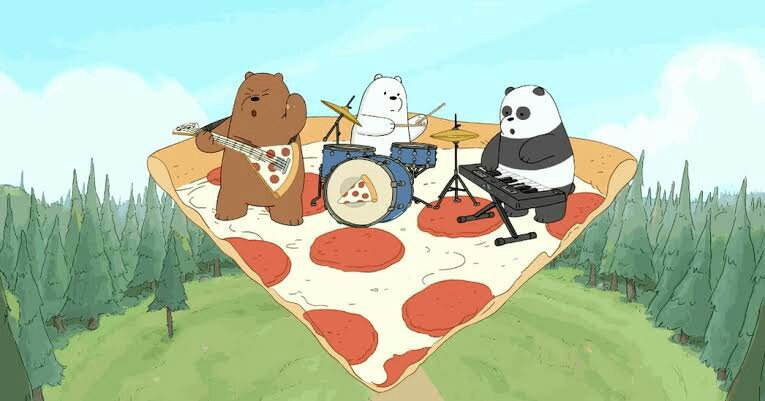
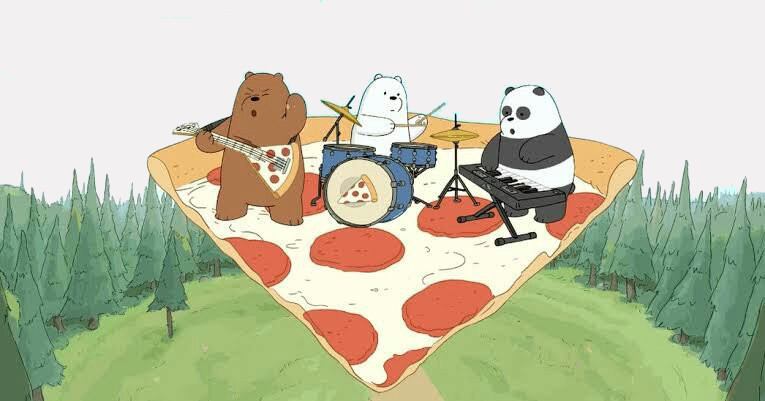
Ajustes layout inicio

Changed region(s): [[0.0, 0.0, 1.0, 0.3591]]

diff --git a/assets/css/style.css b/assets/css/style.css
@@ -275,13 +275,11 @@ input[type=submit]:hover, input[type=reset]:hover{
 
 /*********************** home ***********************/ 
 #inicio {
-	background-image: url("../images/background.png");
-	background-size: cover;
-	width: auto;
-	height: 50vh;
-	display: flex;
-  align-items: center;
-  justify-content: center;
+	background-image: url("../images/pizza-bear-band-02.png");
+	background-size: contain;
+	background-repeat: no-repeat;
+	height: 40vh;
+	width: 100%;
 }
 
 /*********************** Img quem somos ***********************/ 
@@ -436,6 +434,16 @@ footer i {
 		direction: ltr; /* left to right */ 
 		display: block; /* volta a exibir */		
 	} 	
+
+	#inicio {
+		background-image: url("../images/pizza-bear-band-02.png");
+		background-size: cover;
+		margin-left: 20%;
+		width: 70%;
+		height: 50vh;
+		align-items: center;
+		justify-content: center;
+	}
 
 	#heart{
 		display: inline;
